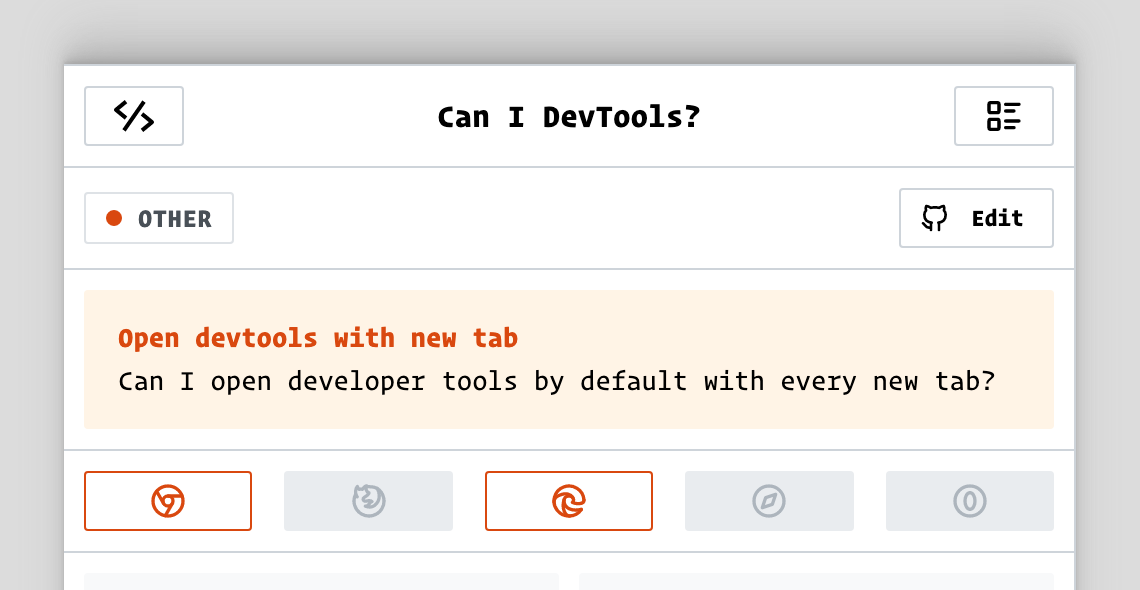
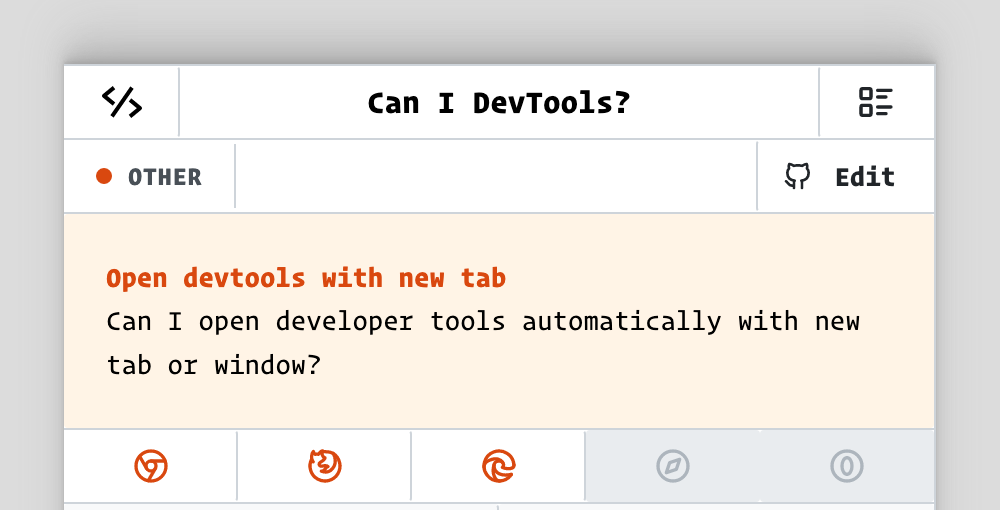
open devtools new tab

Changed region(s): [[0.031, 0.0882, 0.961, 1.0], [0.372, 0.1765, 0.651, 0.2353]]

diff --git a/app/root.css b/app/root.css
@@ -30,6 +30,10 @@ pre, code {
   color: deeppink;
 }
 
+pre {
+  white-space: break-spaces;
+}
+
 code:after, code:before {
 	content: "\`";
 }

diff --git a/README.md b/README.md
@@ -1142,15 +1142,27 @@ Press `Option+Cmd+I` to open the devtools.
  1. Launch Chrome → Click on the vertical three dots icon (near top right of the window).
 2. Navigate to More Tools > Developer Tools.
 ## 83. Open devtools with new tab 
- Can I open developer tools by default with every new tab? 
+ Can I open developer tools automatically with new tab or window? 
 - [Chrome](https://canidev.tools/open-devtools-new-tab/chrome) 
- 1. **MacOS**: In the terminal, pass the `--auto-open-devtools-for-tabs` flag to while launching Chrome<sup>[1]</sup>
+ **a. MacOS**: In the terminal, pass the `--auto-open-devtools-for-tabs` flag to while launching Chrome.
 ```
-/Applications/Google\ Chrome.app/Contents/MacOS/Google\ Chrome --auto-open-devtools-for-tabs https://web.dev
+/Applications/Google\ Chrome.app/Contents/MacOS/Google\ Chrome --auto-open-devtools-for-tabs
 ```
-1. **Windows**: Right-click the Chrome shortcut > Properties and add the flag at the end of the Target line. Alternatively, run the following from your command-line,
+
+**b. Windows**: Right-click the Chrome shortcut > Properties and add the flag at the end of the Target line. Alternatively, run the following from your command-line,
 ```
 "C:\Program Files (x86)\Google\Chrome\Application\chrome.exe" -auto-open-devtools-for-tabs
+```
+- [Firefox](https://canidev.tools/open-devtools-new-tab/firefox) 
+ Firefox provides the `-devtools` command line parameter to launch a new window with devtools open by default.
+
+a. **Windows:**
+Open Run > Enter command, `firefox -devtools`.  
+b. **MacOS:**
+In the terminal, enter the following commands,
+```
+$ cd /Applications/Firefox.app/Contents/MacOS
+$ ./firefox -devtools
 ```
 - [Edge](https://canidev.tools/open-devtools-new-tab/edge) 
  1. **MacOS**: In the terminal, pass the `--auto-open-devtools-for-tabs` flag to while launching Edge.
